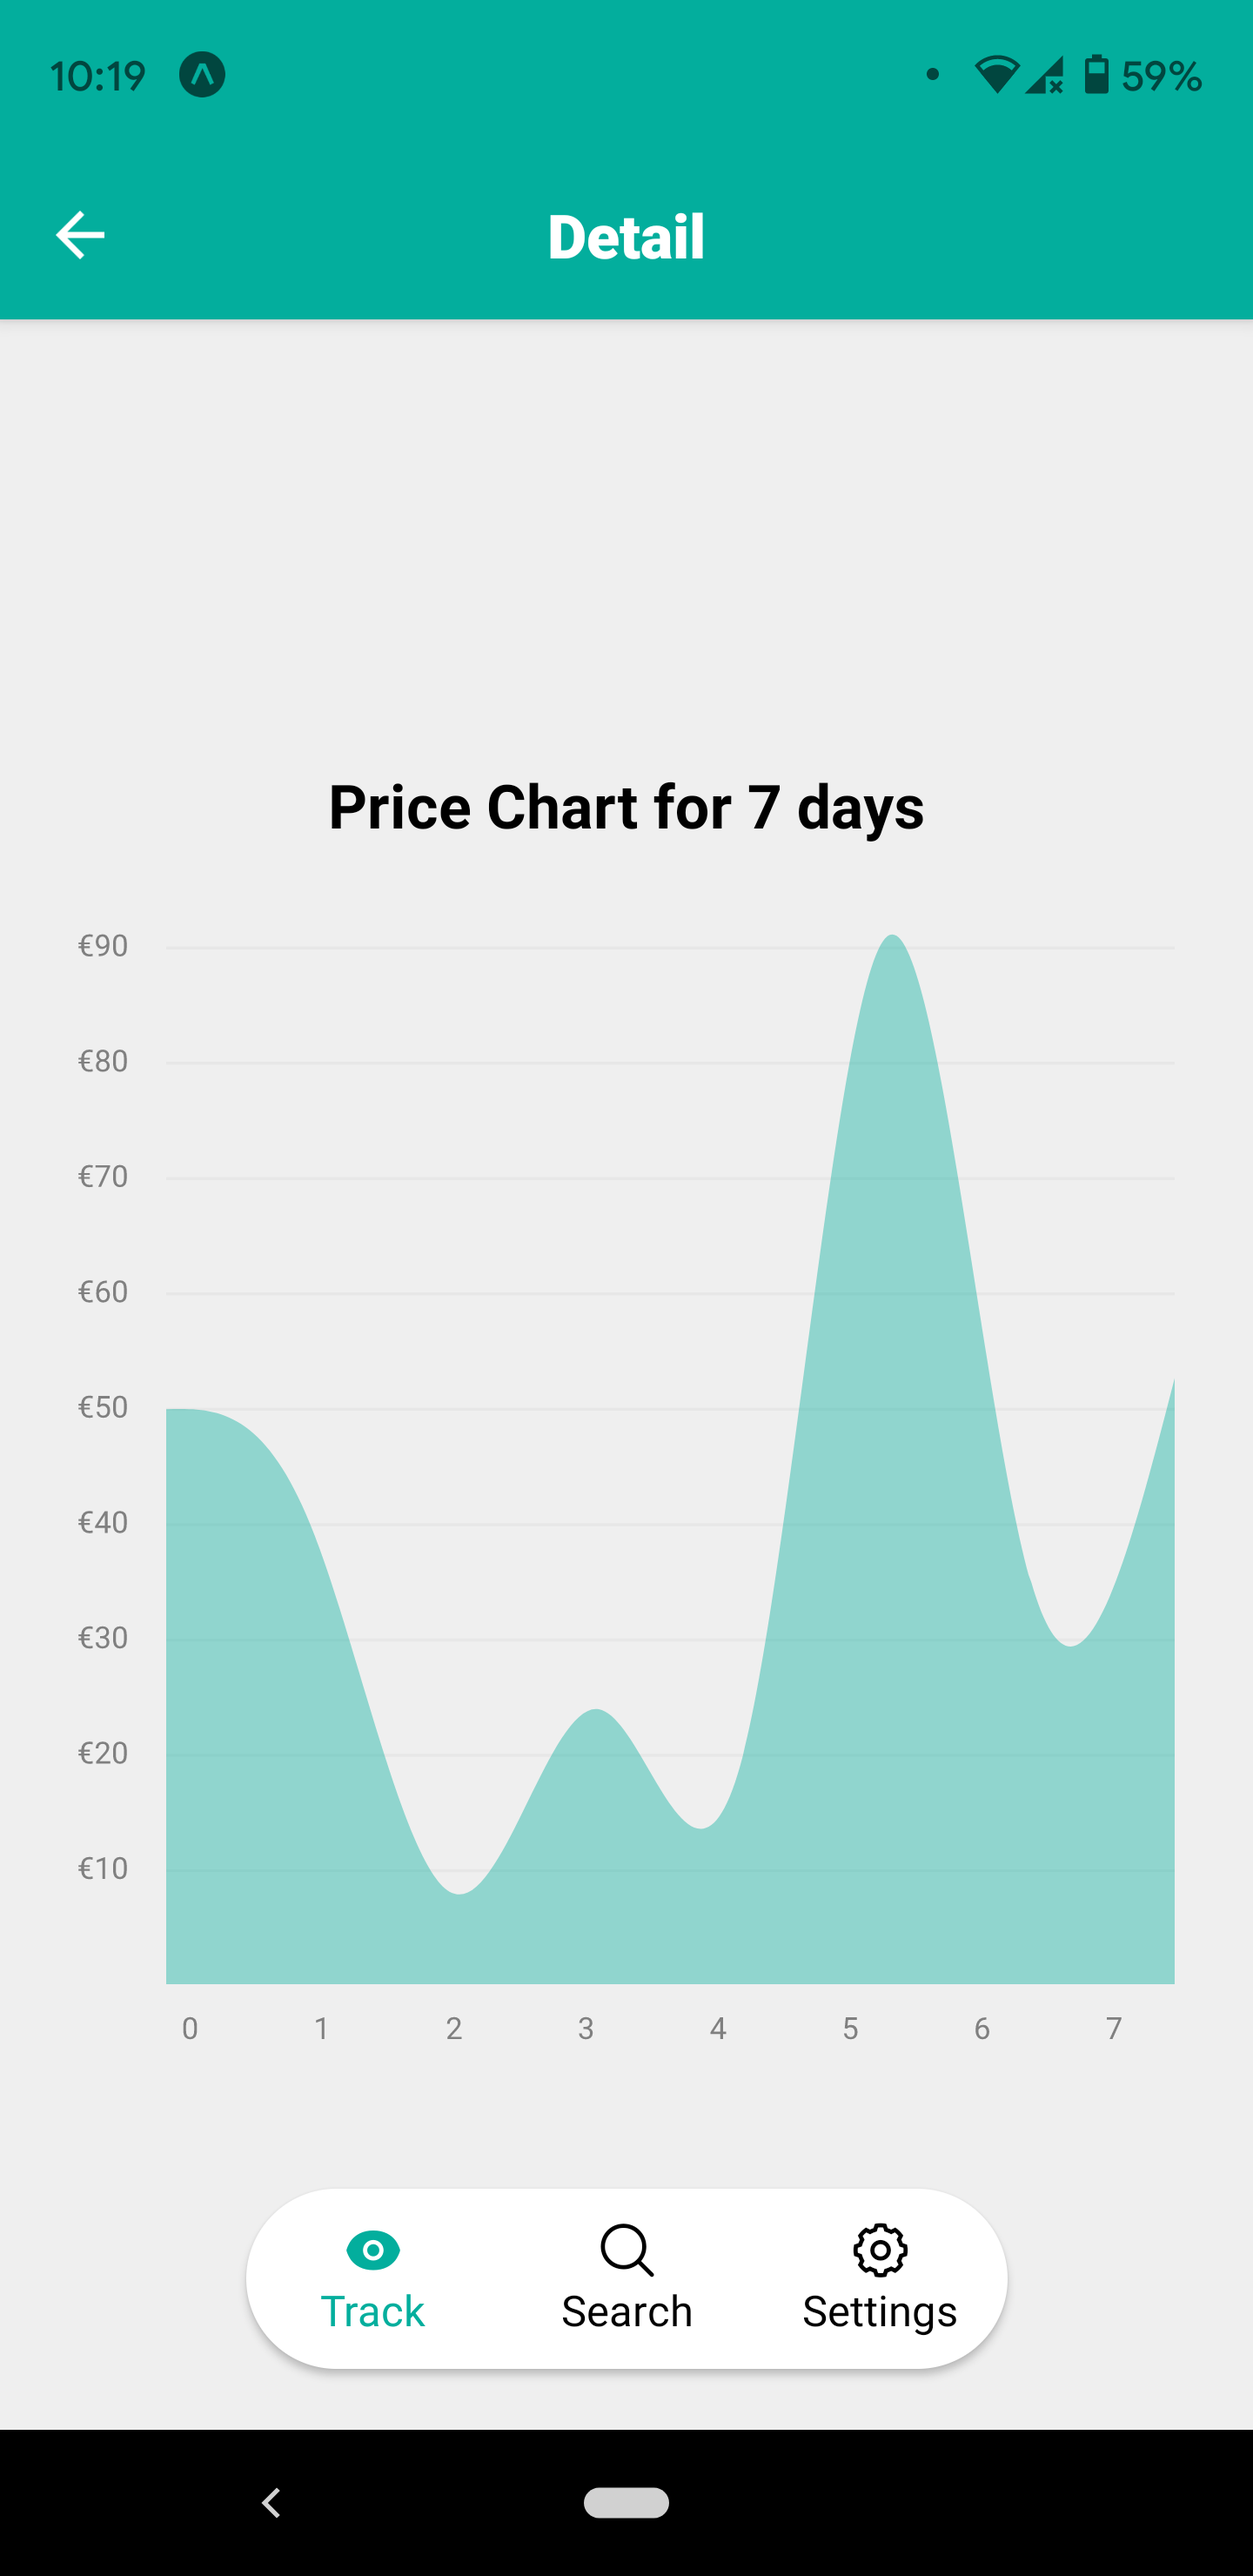
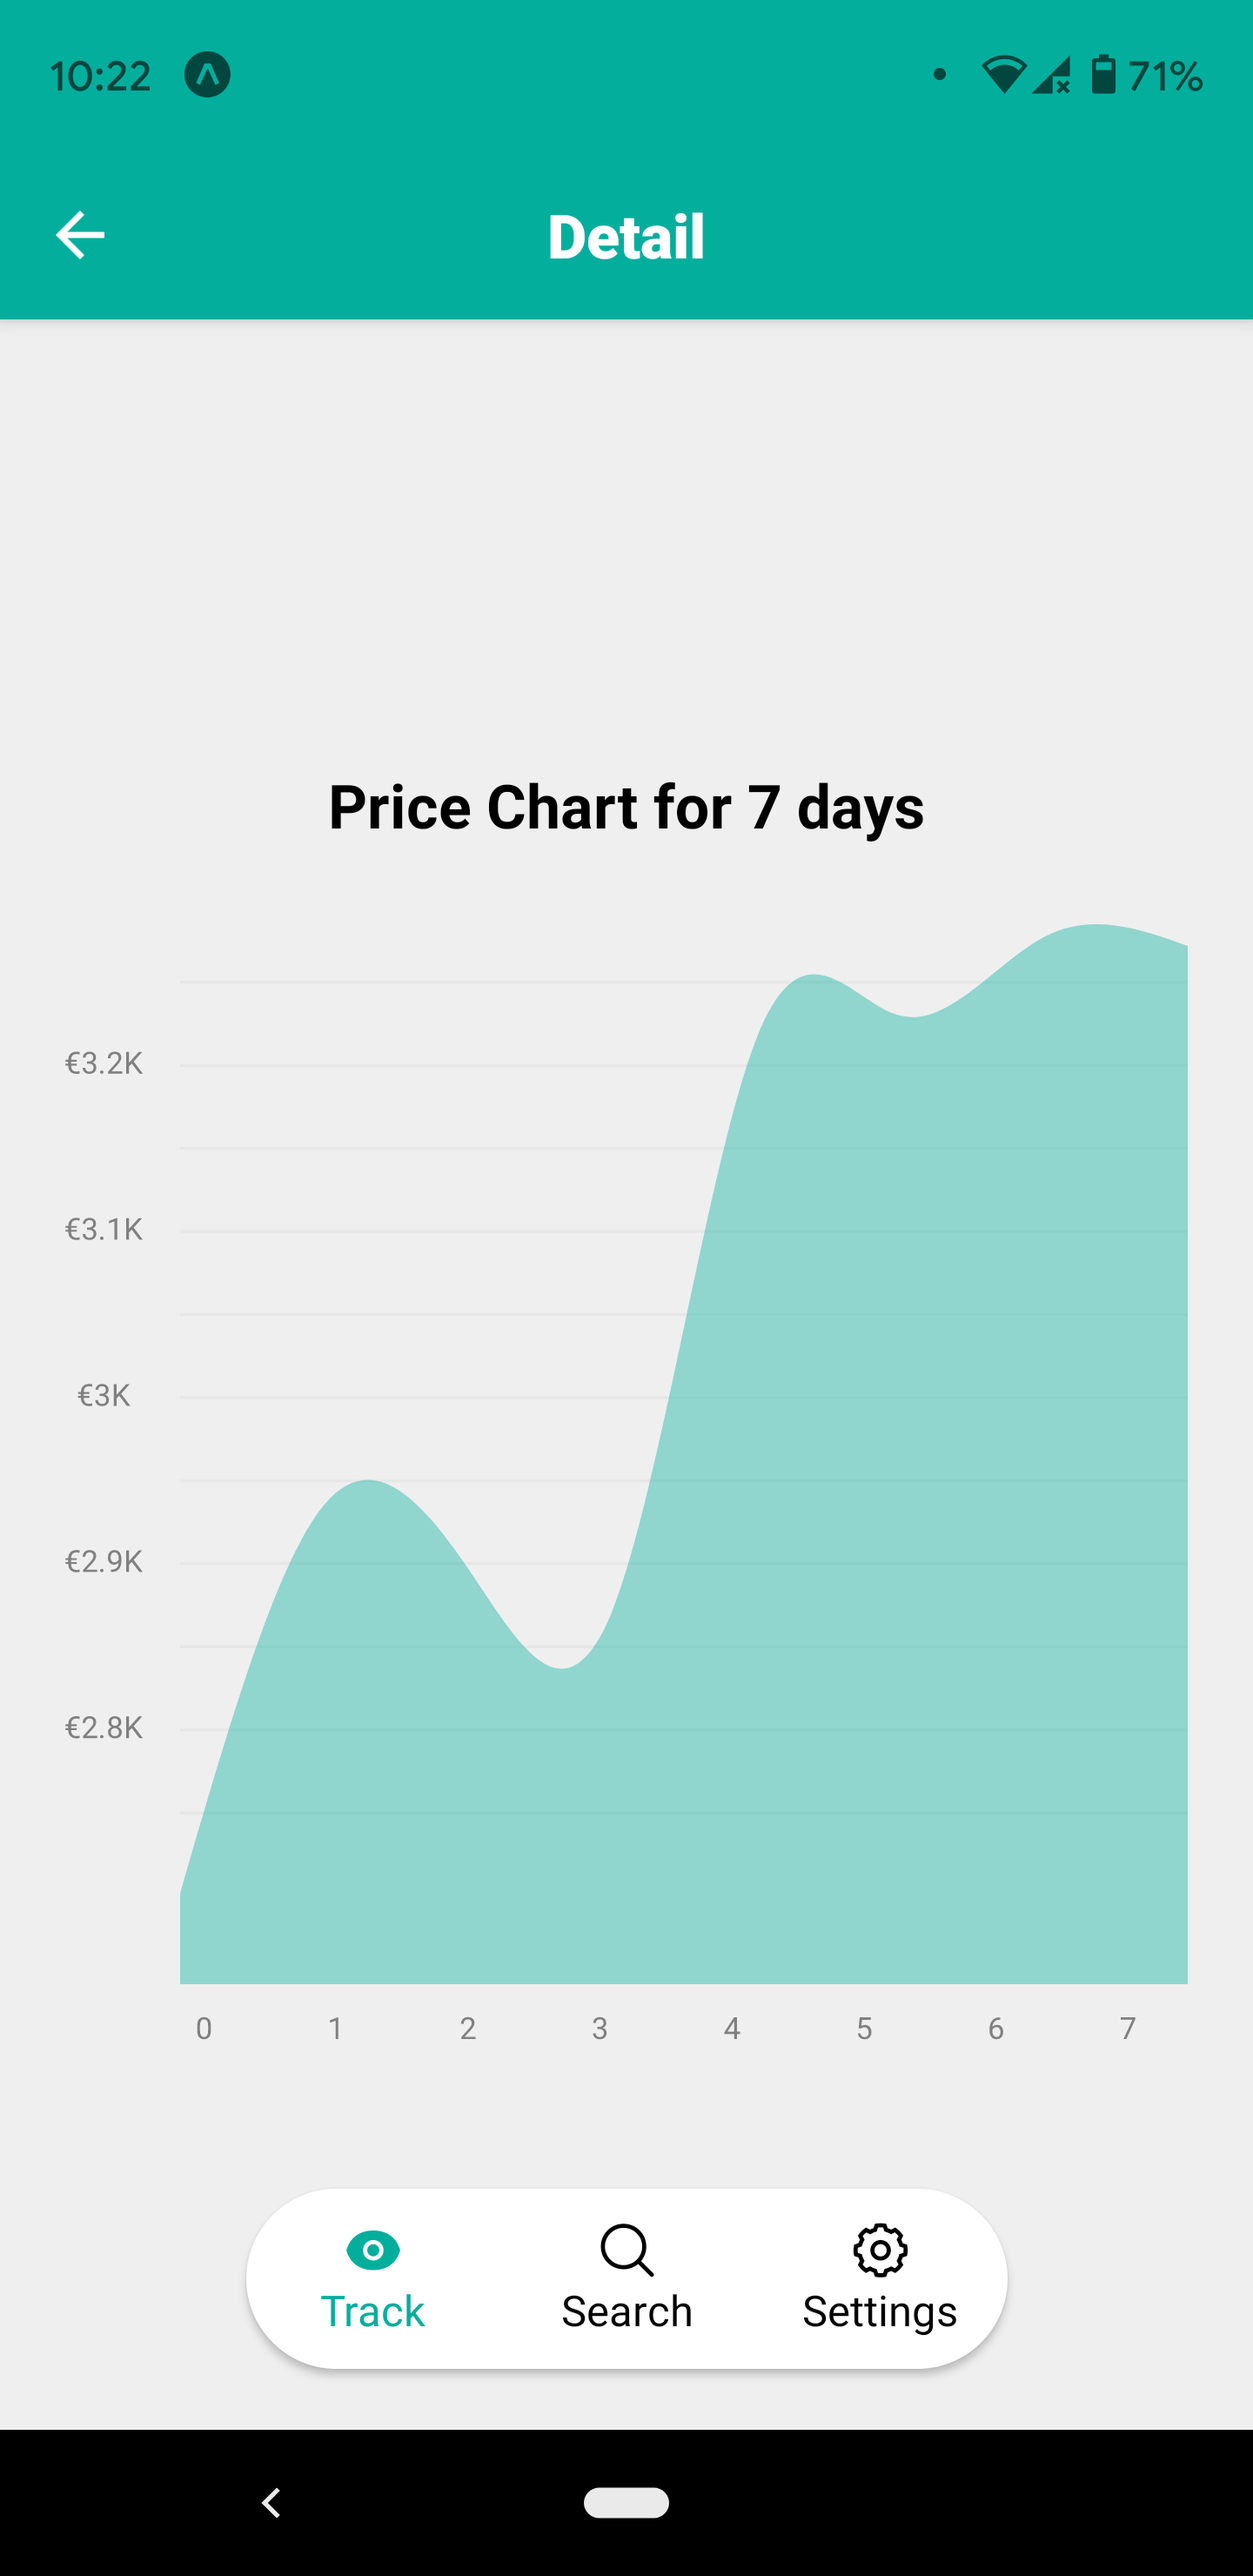
Chart data integration

diff --git a/app/components/Area.js b/app/components/Area.js
@@ -14,7 +14,6 @@ import axios from 'axios';
 import { COINGECKO_URL } from '@env';
 
 const { height, width } = Dimensions.get('window');
-const DATA = [50, 40, 8, 24, 20, 91, 35, 53];
 
 const Area = ({ coinId, days }) => {
   const [data, setData] = useState([]);
@@ -25,8 +24,7 @@ const Area = ({ coinId, days }) => {
     setError(false);
     setLoading(true);
     try {
-      setData(DATA);
-      // fetchMarketChart();
+      fetchMarketChart();
     } catch (error) {
       console.error(error);
       setError(true);
@@ -41,7 +39,7 @@ const Area = ({ coinId, days }) => {
     axios
       .get(baseUrl)
       .then((res) => {
-        setData(res.data);
+        setData(res.data.prices.map((x) => x[1]));
       })
       .catch(() => {
         console.error('Axios GET request failed');
@@ -73,7 +71,7 @@ const Area = ({ coinId, days }) => {
           data={data}
           contentInset={contentInset}
           svg={labels}
-          // numberOfTicks={5}
+          numberOfTicks={5}
           formatLabel={(value) => `€${formatCash(value)}`}
         />
         <View style={styles.main}>

diff --git a/app/components/CoinList.js b/app/components/CoinList.js
@@ -48,7 +48,7 @@ const CoinList = ({ navigation }) => {
   }, [page]);
 
   const fetchCrypto = async () => {
-    const perPage = 64;
+    const perPage = 25;
     const urlParams = `vs_currency=eur&order=market_cap_desc&per_page=${perPage}&page=${page}&sparkline=false`;
     const baseUrl = `${COINGECKO_URL}/api/v3/coins/markets?${urlParams}`;
 
@@ -184,7 +184,7 @@ const CoinList = ({ navigation }) => {
       keyExtractor={(item) => item.id}
       ListFooterComponent={renderFooter}
       onEndReachedThreshold={0.5}
-      // onEndReached={fetchMore}
+      onEndReached={fetchMore}
       refreshControl={
         <RefreshControl refreshing={refreshing} onRefresh={onRefresh} />
       }
